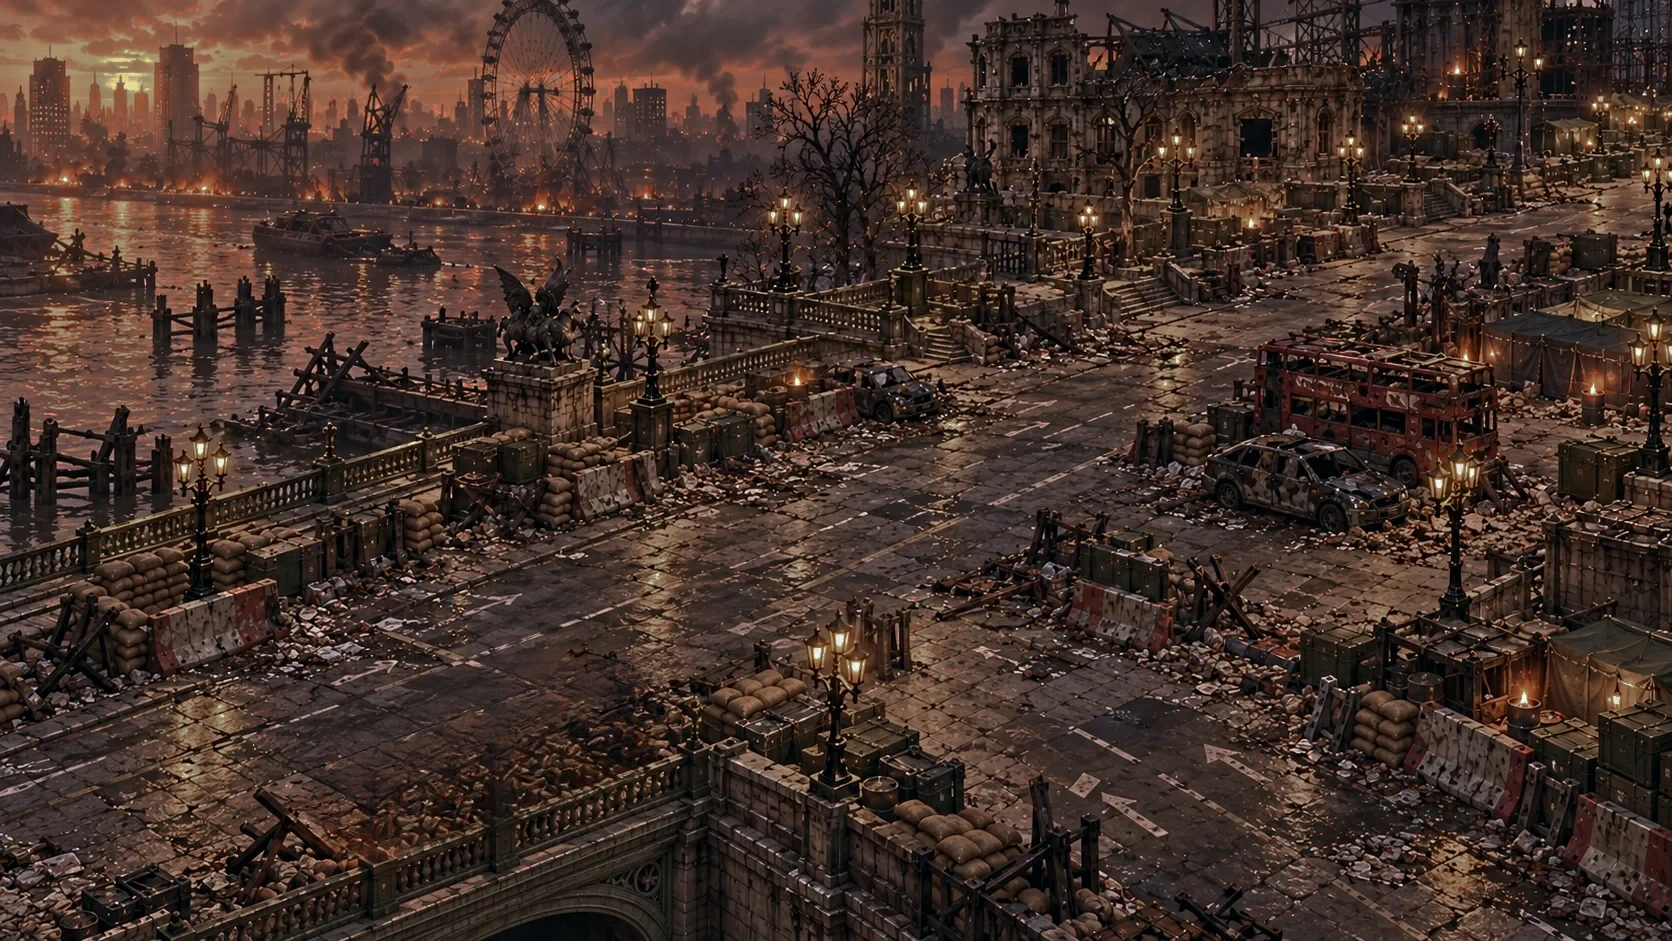
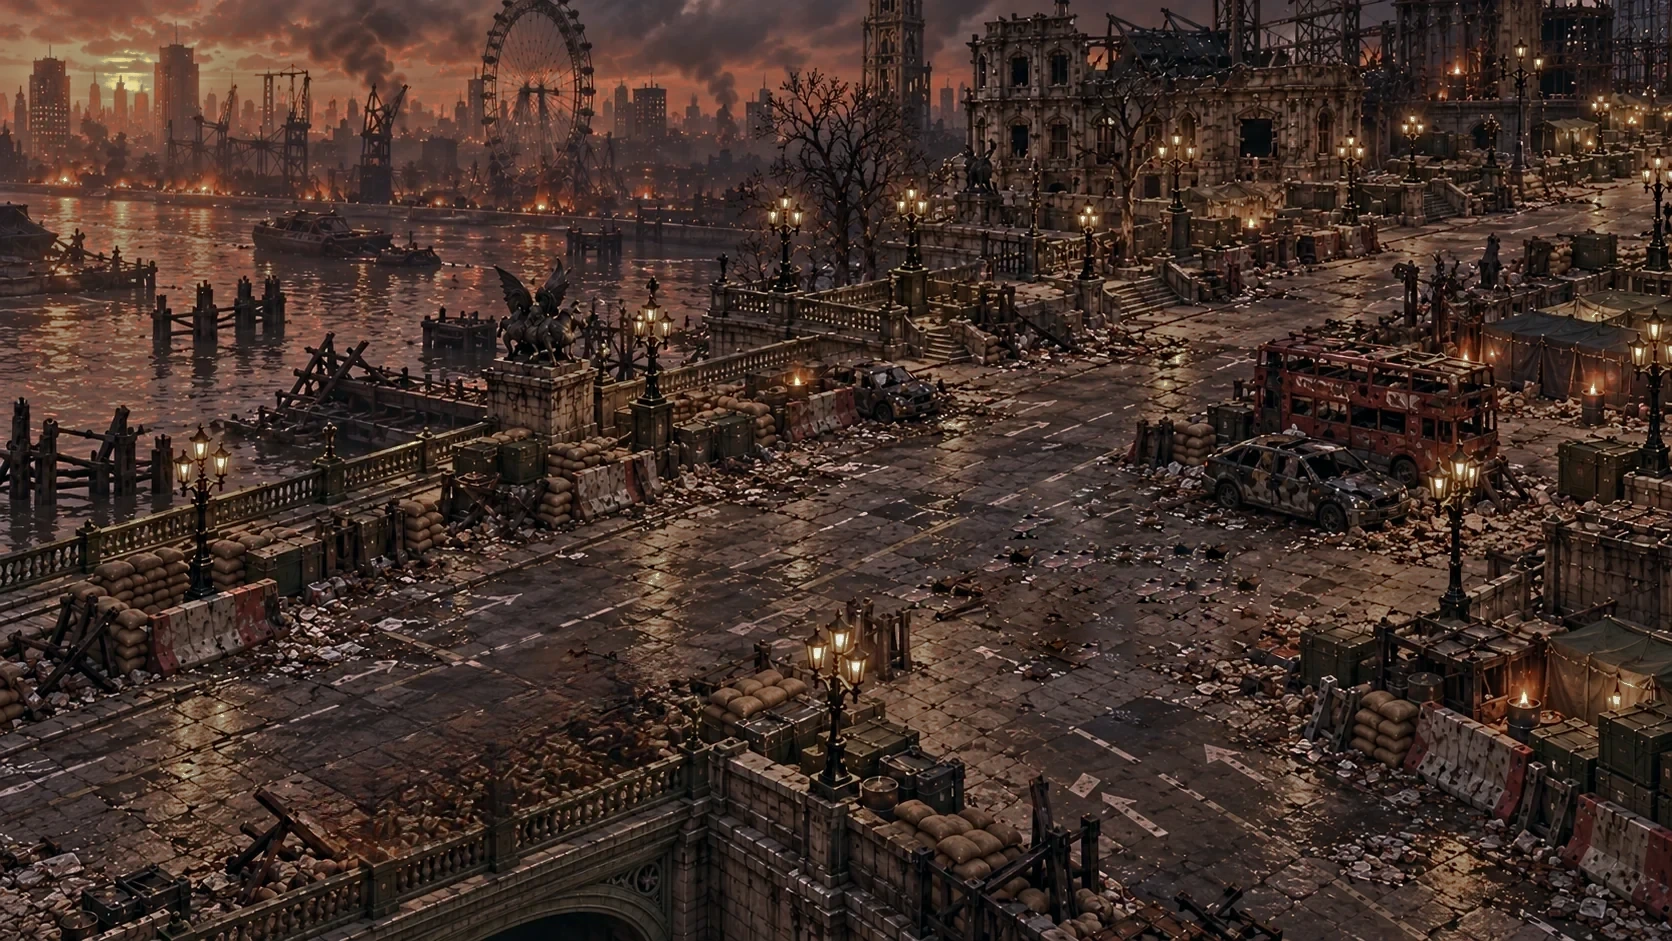
east-bridge: clear the middle barricade, open the road south, move the East exit to its bottom

Changed region(s): [[0.5909, 0.4931, 0.7775, 0.7088]]

diff --git a/Web/tests/data-areas.test.js b/Web/tests/data-areas.test.js
@@ -16,7 +16,7 @@ const raw = () => structuredClone(JSON.parse(rawText));
 const manifest = JSON.parse(fs.readFileSync(new URL("../public/world/manifest.json", import.meta.url)));
 
 test("the data file is pinned", () => {
[2 lines of base64/hex data omitted]
 });
 
 test("areaDefinitions and areaAssets equal the old in-code export (values and key order) except the one stale identity row, and are frozen", () => {

diff --git a/Web/tests/exit-approach.test.js b/Web/tests/exit-approach.test.js
@@ -6,7 +6,7 @@ import {createAreaRegistry} from '../src/area-registry.js';
 import {LondonWorld} from '../src/world.js';
 const base=new URL('../public/world/',import.meta.url),manifest=JSON.parse(fs.readFileSync(new URL('manifest.json',base))),registry=createAreaRegistry({manifest});
 const world=id=>Object.assign(Object.create(LondonWorld.prototype),{areaId:id,registry,geometry:createGeometry(JSON.parse(fs.readFileSync(new URL(id+'/layout.json',base))))});
-for(const [from,to,a,b] of [['east','east-bridge',{x:.8575,y:.28},{x:.8575,y:.25}],['east-bridge','east',{x:.045,y:.862},{x:.027,y:.888}],['elephant-and-castle','east',{x:.958,y:.225},{x:.968,y:.209}],['elephant-and-castle','south',{x:.074,y:.824},{x:.04,y:.832}]])test(`${from}: ordinary registered-road approach reaches ${to} without precision lane`,()=>{
+for(const [from,to,a,b] of [['east','east-bridge',{x:.8575,y:.28},{x:.8575,y:.25}],['east-bridge','east',{x:.745,y:.85},{x:.745,y:.95}],['elephant-and-castle','east',{x:.958,y:.225},{x:.968,y:.209}],['elephant-and-castle','south',{x:.074,y:.824},{x:.04,y:.832}]])test(`${from}: ordinary registered-road approach reaches ${to} without precision lane`,()=>{
  const w=world(from),g=w.geometry,start=g.ground(a),end=g.ground(b);assert(g.clear(start,.4));assert(g.clear(end,.4));let p=start,hit=false;
  for(let i=0;i<200;i++){const dx=end.x-p.x,dz=end.z-p.z,n=Math.hypot(dx,dz);if(n<.025)break;p=g.move(p,{x:dx/n*.04,z:dz/n*.04},.4);assert(g.clear(p,.4));if(w.travelAt(p)?.areaId===to)hit=true;}
  assert(hit,'Full-radius outer road misses exit');assert(w.exitHint(start).includes(to.replaceAll('-',' ').toUpperCase()));

diff --git a/art/backdrop-paint-out/quilt.py b/art/backdrop-paint-out/quilt.py
@@ -29,7 +29,7 @@ clean = np.zeros((h, w), np.uint8)
 for x0, y0, x1, y1 in rects:
     clean[y0:y1, x0:x1] = 1
 # Road markings are low-saturation bright paint; objects and rubble are bright or very dark clutter. Neither may be copied.
-PAINT_MAX = 0.004
+PAINT_MAX = float(os.environ.get("QUILT_PAINT_MAX", 0.004))  # share of marking pixels a source patch may hold; speckled wet cobbles near rubble need more
 hsv = cv2.cvtColor(img, cv2.COLOR_RGB2HSV)
 paint = ((hsv[..., 2] > 150) & (hsv[..., 1] < 90)).astype(np.uint8)
 if os.environ.get("QUILT_PAINT_OPEN"):  # wet cobbles are speckled with tiny highlights: keep only bright blobs wider than N px (markings)
